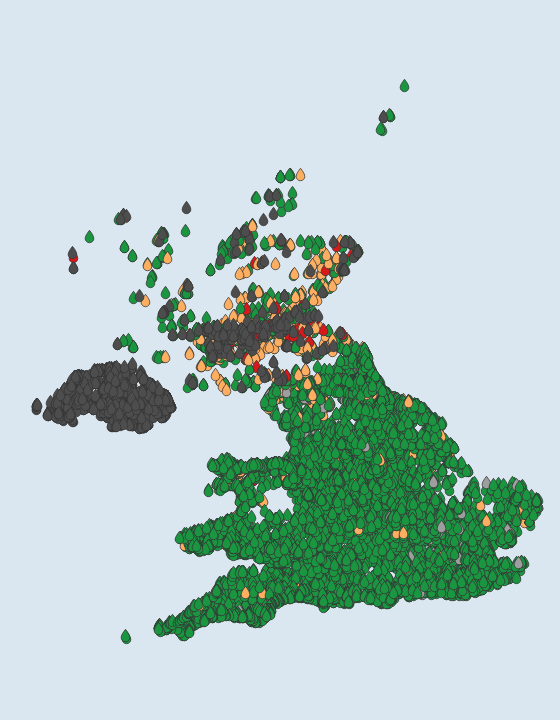
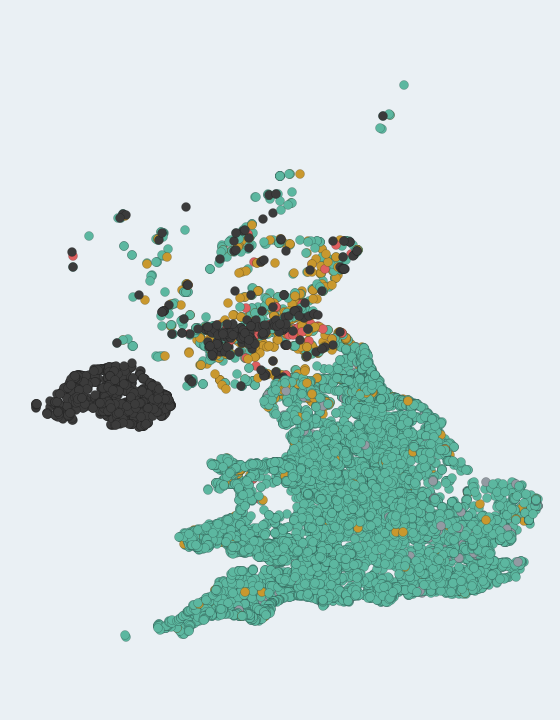
Match SAS symbols: filled circles + sampled palette; drop redundant filter — v0.5.0
Storm overflows now render as filled circles in the exact colours sampled from
the Surfers Against Sewage Live Sewage Map legend (discharging #de5f5f, recently
#c9982e, not discharging #5cb7a0, offline #939aa2, no data #3b3b3b), replacing
the droplet SVG. Remove the per-state filter checkboxes — once the layer is on
the map the filter was redundant (QGIS's own layer legend still toggles
categories); 'Show storm overflows' is now the only control. Simplifies the
store (drops visibility machinery). README/info/screenshot updated.

diff --git a/outfall/spills.py b/outfall/spills.py
@@ -6,26 +6,25 @@ company loads, refreshes, or is switched off. Individual states can be shown or
 hidden (the panel's filter) without refetching.
 """
 
-import os
-
 from qgis.PyQt.QtCore import QVariant
 from qgis.PyQt.QtGui import QColor
 from qgis.core import (
     QgsVectorLayer, QgsFeature, QgsField, QgsFields, QgsGeometry, QgsPointXY,
-    QgsProject, QgsMarkerSymbol, QgsSvgMarkerSymbolLayer,
+    QgsProject, QgsMarkerSymbol, QgsSimpleMarkerSymbolLayer,
     QgsCategorizedSymbolRenderer, QgsRendererCategory, QgsMessageLog, Qgis,
 )
 
 LAYER_NAME = "Outfall UK — Storm Overflows"
-_DROP_SVG = os.path.join(os.path.dirname(__file__), "drop.svg")
 
-# Discharge state -> colour, in legend order (mirrors the SAS Live Sewage Map).
+# Discharge state -> colour, sampled from the Surfers Against Sewage Live Sewage
+# Map legend so the symbols match it exactly. Rendered as filled circles, as SAS
+# does.
 STATE_COLORS = [
-    ("Discharging", "#d7191c"),          # red — spilling now
-    ("Recently discharged", "#fdae61"),  # orange — stopped in last 48h
-    ("Not discharging", "#1a9641"),      # green — monitored, dry
-    ("Offline", "#9e9e9e"),              # grey — monitor offline
-    ("No Data", "#4d4d4d"),              # dark grey — status unknown
+    ("Discharging", "#de5f5f"),          # coral red — spilling now
+    ("Recently discharged", "#c9982e"),  # amber — stopped in last 48h
+    ("Not discharging", "#5cb7a0"),      # teal — monitored, dry
+    ("Offline", "#939aa2"),              # blue-grey — monitor offline
+    ("No Data", "#3b3b3b"),              # charcoal — status unknown
 ]
 
 _FIELDS = [
@@ -52,7 +51,6 @@ class SpillStore:
     def __init__(self):
         self._layer = None
         self._by_company = {}   # source id -> list of spill dicts
-        self._visible = {state for state, _c in STATE_COLORS}
 
     # --- layer lifecycle -------------------------------------------------
     def ensure_layer(self):
@@ -132,40 +130,24 @@ class SpillStore:
         self._layer.updateExtents()
         self._layer.triggerRepaint()
 
-    # --- styling / filter ------------------------------------------------
-    def set_state_visible(self, state, visible):
-        if visible:
-            self._visible.add(state)
-        else:
-            self._visible.discard(state)
-        if self._layer_valid():
-            self._apply_visibility()
-            self._layer.triggerRepaint()
-
-    def _apply_visibility(self):
-        renderer = self._layer.renderer()
-        if not isinstance(renderer, QgsCategorizedSymbolRenderer):
-            return
-        for i, cat in enumerate(renderer.categories()):
-            renderer.updateCategoryRenderState(i, cat.value() in self._visible)
-
+    # --- styling ---------------------------------------------------------
     def _style(self):
         try:
             cats = [QgsRendererCategory(state, self._marker(color), state)
                     for state, color in STATE_COLORS]
             self._layer.setRenderer(
                 QgsCategorizedSymbolRenderer("state", cats))
-            self._apply_visibility()
         except Exception as exc:  # noqa: BLE001 - styling must never block data
             QgsMessageLog.logMessage(f"styling skipped: {exc}", "Outfall UK",
                                      Qgis.MessageLevel.Warning)
 
     def _marker(self, color):
-        svg = QgsSvgMarkerSymbolLayer(_DROP_SVG)
-        svg.setSize(4)
-        svg.setFillColor(QColor(color))
-        svg.setStrokeColor(QColor("#333333"))
-        svg.setStrokeWidth(0.2)
+        # Filled circle, matching the SAS Live Sewage Map.
+        circle = QgsSimpleMarkerSymbolLayer()   # default shape is a circle
+        circle.setSize(2.4)
+        circle.setColor(QColor(color))
+        circle.setStrokeColor(QColor(0, 0, 0, 60))
+        circle.setStrokeWidth(0.2)
         sym = QgsMarkerSymbol()
-        sym.changeSymbolLayer(0, svg)
+        sym.changeSymbolLayer(0, circle)
         return sym

diff --git a/outfall/outfall_plugin.py b/outfall/outfall_plugin.py
@@ -22,7 +22,7 @@ from qgis.gui import QgsCollapsibleGroupBox
 from .providers import SOURCES
 from .providers.spills import spill_sources
 from .sites import SiteStore, MODE_RATING, MODE_RISK
-from .spills import SpillStore, STATE_COLORS
+from .spills import SpillStore
 from .sources_info import nation_html, spills_html
 from ._debug import dbg, add_sink, clear_sinks
 
@@ -43,7 +43,6 @@ class OutfallPlugin:
         self.timer = None
         self.cbo_mode = None
         self.chk_spills = None
-        self.state_checks = {}
         self.lbl_status = None
         self.lbl_spills = None
         self.log_view = None
@@ -156,18 +155,6 @@ class OutfallPlugin:
         spill_row.addWidget(spill_info, 0)
         spill_layout.addLayout(spill_row)
 
-        # per-state filter (like the SAS map): one checkbox per discharge state
-        self.state_checks = {}
-        for state, color in STATE_COLORS:
-            cb = QCheckBox(state)
-            cb.setChecked(True)
-            cb.setEnabled(False)
-            cb.setStyleSheet(f"QCheckBox {{ color: {color}; }}")
-            cb.toggled.connect(
-                lambda on, st=state: self.spill_store.set_state_visible(st, on))
-            self.state_checks[state] = cb
-            spill_layout.addWidget(cb)
-
         self.lbl_spills = QLabel("")
         self.lbl_spills.setWordWrap(True)
         self.lbl_spills.setStyleSheet("color: gray;")
@@ -278,8 +265,6 @@ class OutfallPlugin:
         self._update_status()
 
     def _on_spills_toggled(self, on):
-        for cb in self.state_checks.values():
-            cb.setEnabled(on)
         if on:
             self._load_spills()
             self._ensure_timer()

diff --git a/outfall/sources_info.py b/outfall/sources_info.py
@@ -89,9 +89,10 @@ _SPILLS_HTML = (
     "live status), so these appear as <b>No Data</b>."
     "<br/><br/>"
     "<b>What the colours mean</b><br/>"
-    "Red — discharging now · Orange — recently discharged (last 48h) · "
-    "Green — monitored, not discharging · Grey — monitor offline · "
-    "Dark grey — no data."
+    "Red — discharging now · Amber — recently discharged (last 48h) · "
+    "Teal — monitored, not discharging · Blue-grey — monitor offline · "
+    "Charcoal — no data. (Colours and circle symbols match the SAS Live "
+    "Sewage Map.)"
     "<br/><br/>"
     '<p style="color:gray">This is near-real-time operational data that has '
     "<b>not</b> been through the Environment Agency's regulatory audit — treat "

diff --git a/README.md b/README.md
@@ -30,7 +30,7 @@ identify — but where those stream moving things, Outfall UK monitors places:
 ## Features
 
 - **Whole-UK coverage** — ~700 designated bathing waters across all four nations, from one panel.
-- **Live sewage spills** — a second layer showing **every monitored storm overflow** (~20,000) coloured by state — **discharging now** (red), **recently discharged**, last 48h (orange), **not discharging** (green), **offline** (grey) or **no data** (dark grey) — near-real-time (within about an hour) from all English and Welsh water companies and Scottish Water, the same feeds behind the [National Storm Overflow Hub](https://www.streamwaterdata.co.uk/pages/the-national-storm-overflow-hub). A per-state filter shows or hides each state, like the Surfers Against Sewage Live Sewage Map.
+- **Live sewage spills** — a second layer showing **every monitored storm overflow** (~20,000) drawn as filled circles coloured by state — **discharging now**, **recently discharged** (last 48h), **not discharging**, **offline** or **no data** — near-real-time (within about an hour) from all English and Welsh water companies and Scottish Water, the same feeds behind the [National Storm Overflow Hub](https://www.streamwaterdata.co.uk/pages/the-national-storm-overflow-hub). The circle symbols and colours match the Surfers Against Sewage Live Sewage Map.
 - **Free and keyless** — official open data, no account or API key.
 - **Colour by rating or risk** — switch bathing waters between the **annual classification** (Excellent, Good, Sufficient, Poor) and, where published, **today's short-term pollution-risk forecast** (normal vs increased risk).
 - **Toggle nations** — show or hide England, Wales, Scotland and Northern Ireland independently.
@@ -88,7 +88,7 @@ discharging now.
 1. Open the **Outfall UK** panel — every UK bathing water loads onto the map.
 2. Use **Colour by** to switch between the annual rating and today's pollution risk.
 3. Tick or untick a **nation** to show or hide it.
-4. Tick **Show storm overflows** to add the live storm-overflow layer (~20,000 outfalls); use the per-state checkboxes to show or hide Discharging, Recently discharged, Not discharging, Offline and No Data.
+4. Tick **Show storm overflows** to add the live storm-overflow layer (~20,000 outfalls), coloured by state exactly like the SAS Live Sewage Map.
 5. **Click** a site or overflow to see its detail — bathing waters show rating, risk, operator and profile link; overflows show status, company and receiving watercourse.
 
 ## Credits
